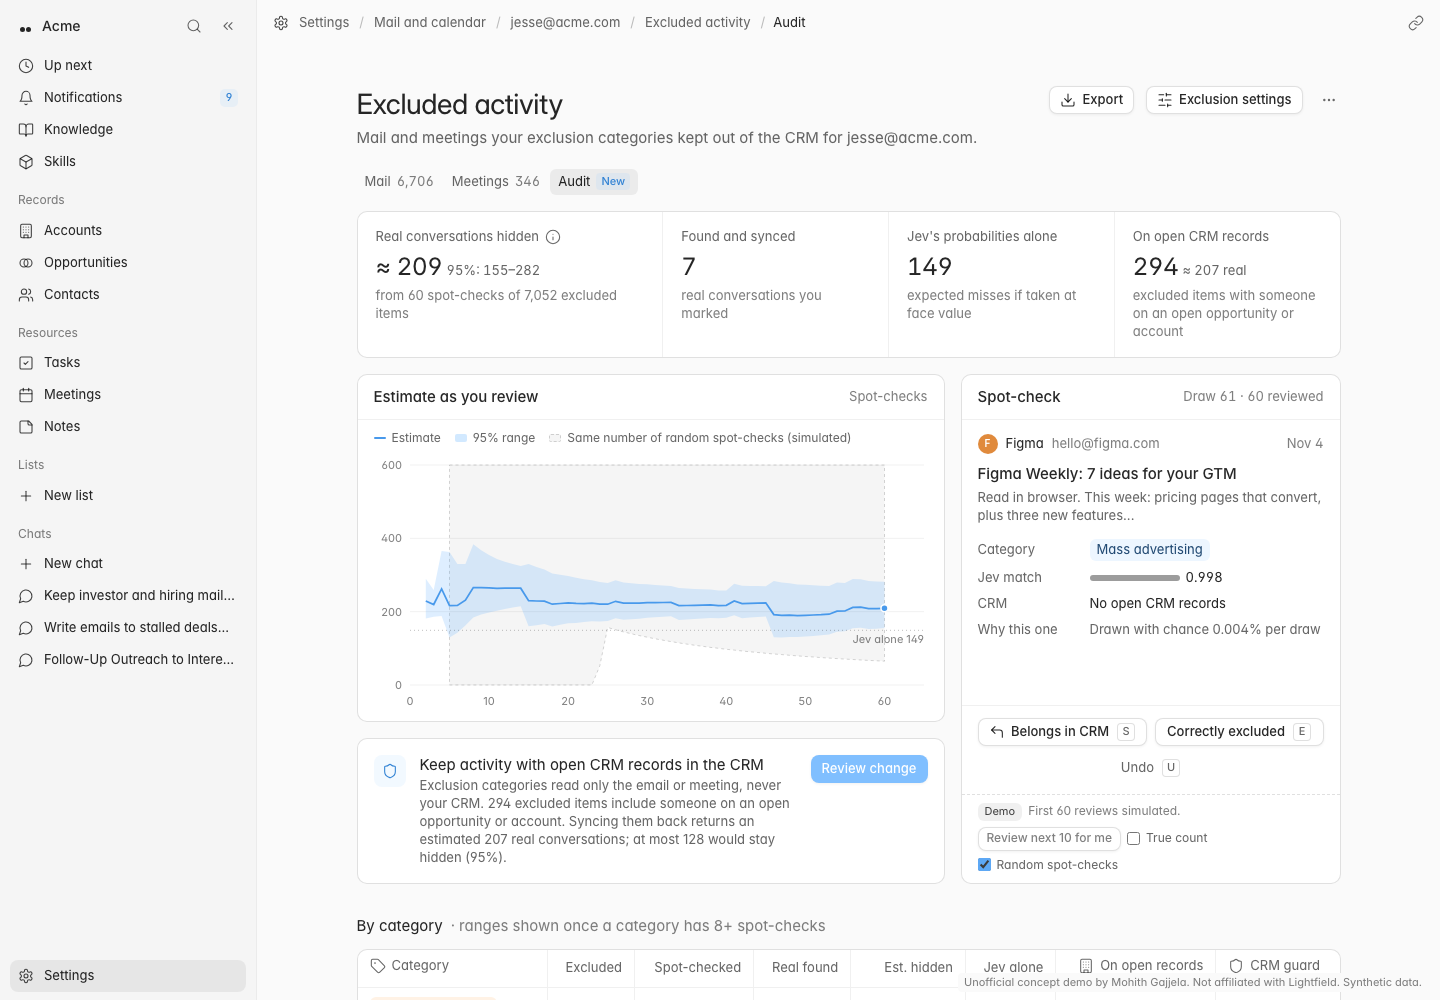
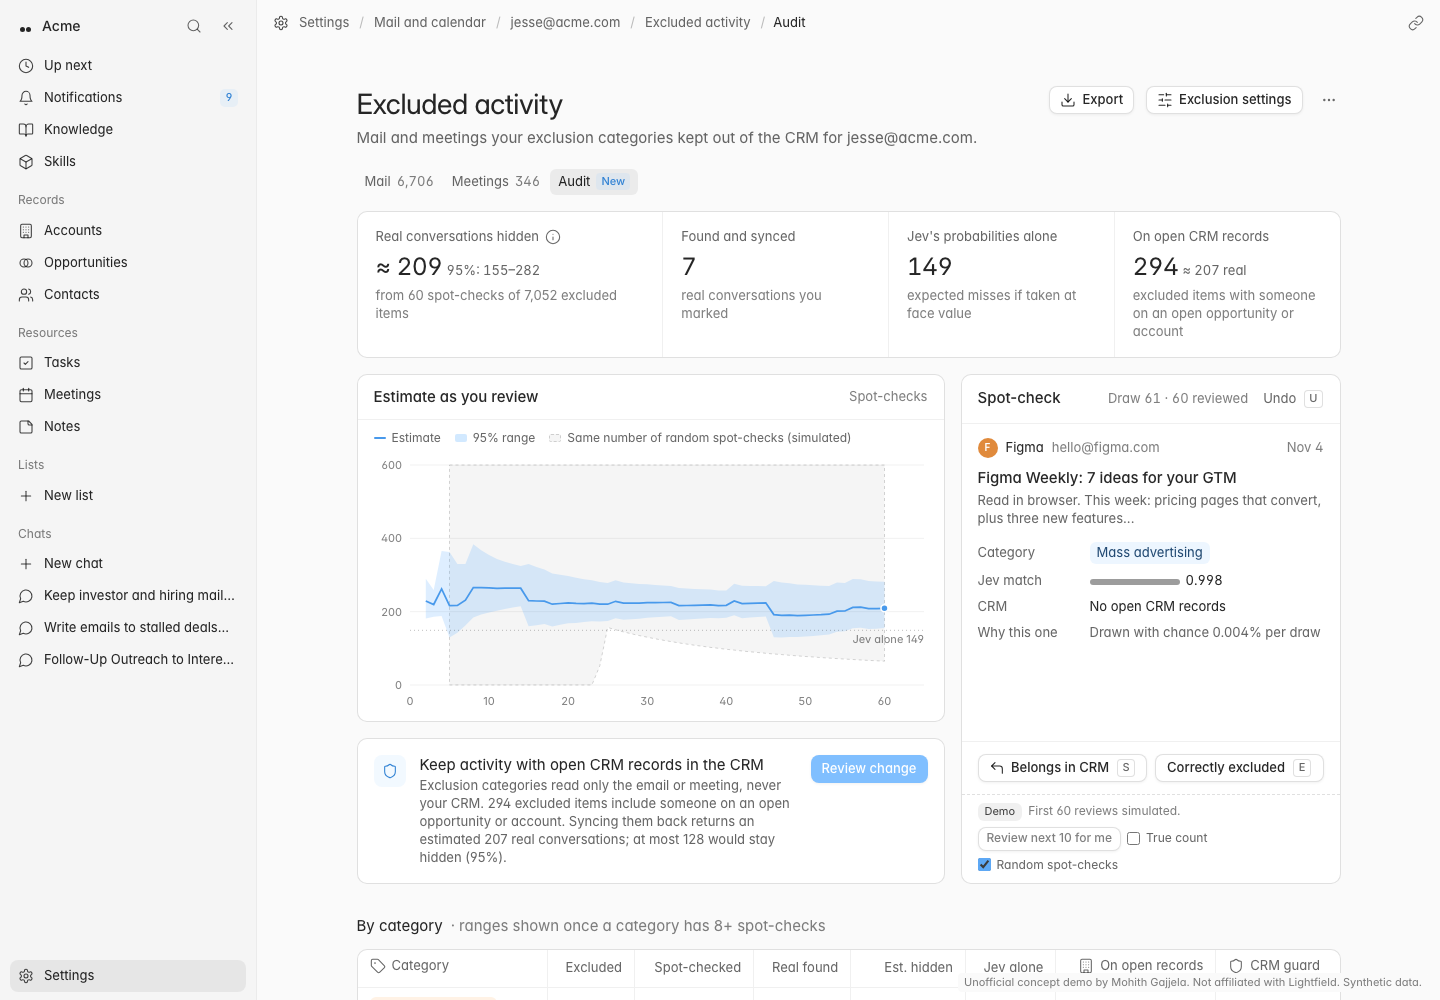
Settings fidelity, keyboard fix, spot-check layout

diff --git a/app.js b/app.js
@@ -239,7 +239,7 @@ function renderAudit() {
     const it = items[next];
     const crmText = it.crm ? `On open record${it.acct ? ' · ' + esc(it.acct) : ''}` : 'No open CRM records';
     spot = `<div class="card white spot" aria-label="Spot-check">
-      <div class="panel-head"><span class="h3">Spot-check</span><span class="faint num">Draw ${fmt(n + 1)} · ${fmt(sm.unique)} reviewed</span></div>
+      <div class="panel-head"><span class="h3">Spot-check</span><span class="faint num">Draw ${fmt(n + 1)} · ${fmt(sm.unique)} reviewed</span><button class="btn ghost" id="b-undo" ${n ? '' : 'disabled'} aria-keyshortcuts="U" style="height:24px;padding:0 6px;margin-right:-6px">Undo <kbd>U</kbd></button></div>
       <div class="spot-body">
         <div class="from">${avatar(it.from)}<span>${esc(it.from)}</span><span class="faint" style="overflow:hidden;text-overflow:ellipsis;white-space:nowrap">${esc(it.email)}</span><span class="faint" style="margin-left:auto">${fmtDate(it.d)}</span></div>
         <div class="subj">${it.k === 'e' ? '<i data-lucide="calendar" style="vertical-align:-3px;margin-right:4px"></i>' : ''}${esc(it.subj)}</div>
@@ -254,7 +254,6 @@ function renderAudit() {
       <div class="spot-actions">
         <button class="btn" id="b-yes" aria-keyshortcuts="S"><i data-lucide="corner-up-left"></i>Belongs in CRM <kbd>S</kbd></button>
         <button class="btn" id="b-no" aria-keyshortcuts="E">Correctly excluded <kbd>E</kbd></button>
-        <button class="btn ghost" id="b-undo" ${n ? '' : 'disabled'} aria-keyshortcuts="U">Undo <kbd>U</kbd></button>
       </div>
       <div class="demo-row"><span class="chip gray" style="height:18px;font-size:.6875rem">Demo</span>${S.seeded ? '<span>First 60 reviews simulated.</span>' : ''}
         <button class="btn" id="b-sim">Review next 10 for me</button>
@@ -436,19 +435,20 @@ function renderSettings() {
     return `<div class="card-row cat-row ${changed ? 'pending' : ''}"><div style="flex:1;min-width:0">
       <div class="row-title">${esc(cat.name)} <span class="applies">${esc(cat.applies)}</span></div>
       <div class="row-desc">${esc(cat.desc)}</div>
-      <div class="audit-line"><i data-lucide="activity"></i>${ready ? `≈ ${fmt(r.est)} real conversations hidden` : 'Not audited yet'} · ${fmt(r.excluded)} excluded · ${fmt(r.crmCount)} on open records <a class="ul" href="#/excluded/audit/category/${cat.id}" style="text-decoration:underline;text-decoration-color:var(--color-neutral-t4)">See audit</a></div></div>
+      <div class="audit-line"><i data-lucide="activity"></i>${ready ? `≈ ${fmt(r.est)} real conversation${Math.round(r.est) === 1 ? '' : 's'} hidden` : 'Not audited yet'} · ${fmt(r.excluded)} excluded · ${fmt(r.crmCount)} on open records <a class="ul" href="#/excluded/audit/category/${cat.id}" style="text-decoration:underline;text-decoration-color:var(--color-neutral-t4)">See audit</a></div></div>
       <div style="display:flex;align-items:center;gap:8px;color:var(--color-content-secondary)"><span>Keep open CRM records</span>
       <button class="switch" role="switch" aria-checked="${on}" aria-label="Keep activity with open CRM records for ${esc(cat.name)}" data-c="${c}"></button>
       <button class="icon-btn" aria-label="Category actions"><i data-lucide="ellipsis"></i></button></div></div>`;
   }).join('');
   $('#view').innerHTML = `<h1 class="h1">Mail and calendar</h1><p class="sub">Manage record creation settings from your connected mail and calendar accounts</p>
-    <div class="card" style="margin-top:28px">
-      <div class="card-row" style="padding:16px"><span style="width:40px;height:40px;border-radius:10px;border:1px solid var(--color-border-subtle);display:grid;place-items:center;background:#fff">${gLogo()}</span>
+    <button class="btn" style="margin-top:22px" title="Connecting more accounts depends on your plan"><i data-lucide="plus"></i>Add account</button>
+    <div class="card acct" style="margin-top:20px">
+      <div class="card-row" style="padding:12px 16px;border-bottom:1px solid var(--color-border-subtle)"><span style="width:40px;height:40px;border-radius:10px;border:1px solid var(--color-border-subtle);display:grid;place-items:center;background:#fff">${gLogo()}</span>
         <div style="flex:1"><div class="row-title">jesse@acme.com</div><div class="row-desc">Google mail and calendar account</div></div>
         <span style="display:inline-flex;align-items:center;gap:8px"><span class="dot" style="background:#09ae3f"></span>Connected</span><button class="icon-btn" aria-label="Account actions"><i data-lucide="ellipsis"></i></button></div>
-      <div class="card-row"><div style="flex:1"><div class="row-title">Backsync range</div><div class="row-desc">Choose how far back to sync your mail and calendar</div></div><span class="pill">3 months</span></div>
-      <div class="card-row"><div style="flex:1"><div class="row-title">Calendar sync</div><div class="row-desc">Choose which meetings to track in Lightfield</div></div><span class="pill">External meetings only</span></div>
-      <div class="card-row"><div style="flex:1"><div class="row-title">Account and contact creation</div><div class="row-desc">Control how new records are automatically created from emails and calendar meetings</div></div><span class="pill">When you reach out</span></div>
+      <div class="card-row"><div style="flex:1"><div class="row-title">Backsync range</div><div class="row-desc">Choose how far back to sync your mail and calendar</div></div><span class="select">3 months<i data-lucide="chevron-down"></i></span></div>
+      <div class="card-row"><div style="flex:1"><div class="row-title">Calendar sync</div><div class="row-desc">Choose which meetings to track in Lightfield</div></div><span class="select">External meetings only<i data-lucide="chevron-down"></i></span></div>
+      <div class="card-row"><div style="flex:1"><div class="row-title">Account and contact creation</div><div class="row-desc">Control how new records are automatically created from emails and calendar meetings</div></div><span class="select">When you reach out<i data-lucide="chevron-down"></i></span></div>
     </div>
     <div class="section-title">Exclusions</div>
     <div class="card"><div class="card-row" style="padding:14px 16px"><div style="flex:1"><div class="row-title">Excluded activity types</div><div class="row-desc">Lightfield checks every email and meeting from this account against these descriptions and keeps matches out of the CRM.</div></div>
@@ -522,7 +522,7 @@ function exportJSON() {
 
 // ---------------------------------------------------------------- keyboard + states
 document.addEventListener('keydown', (e) => {
-  if (e.target.closest('input,select,textarea') || e.metaKey || e.ctrlKey || e.altKey) return;
+  const tg = e.target; if ((tg && tg.closest && tg.closest('input,select,textarea')) || e.metaKey || e.ctrlKey || e.altKey) return;
   if (e.key === 'Escape') { closeDialog(); closeMenu(); return; }
   if ($('#overlay').classList.contains('open')) return;
   const onAudit = parseHash().parts[1] === 'audit' && !parseHash().parts[2];

diff --git a/styles.css b/styles.css
@@ -200,8 +200,8 @@ kbd { font-family: var(--font); font-size: .6875rem; min-width: 18px; height: 18
 .meta .mk { color: var(--color-content-secondary); display: flex; align-items: center; gap: 6px; }
 .bar { height: 6px; border-radius: 3px; background: var(--color-neutral-t2); overflow: hidden; width: 90px; display: inline-block; vertical-align: middle; margin-right: 6px; }
 .bar i { display: block; height: 100%; background: var(--color-neutral-t7); }
-.spot-actions { display: flex; gap: 8px; padding: 12px 16px; border-top: 1px solid var(--color-border-subtle); flex-wrap: wrap; }
-.spot-actions .btn { flex: 1; justify-content: center; }
+.spot-actions { display: flex; gap: 8px; padding: 12px 16px; border-top: 1px solid var(--color-border-subtle); }
+.spot-actions .btn { flex: 1 1 0; min-width: 0; justify-content: center; padding: 0 8px; }
 .demo-row { display: flex; align-items: center; gap: 6px; padding: 8px 12px 10px 16px; border-top: 1px dashed var(--color-border-moderate); color: var(--color-content-quaternary); font-size: .75rem; flex-wrap: wrap; }
 .demo-row .btn { height: 24px; font-size: .75rem; padding: 0 8px; }
 .toggle { display: inline-flex; align-items: center; gap: 6px; cursor: pointer; color: var(--color-content-secondary); }
@@ -279,3 +279,9 @@ kbd { font-family: var(--font); font-size: .6875rem; min-width: 18px; height: 18
   .grid2 { grid-template-columns: minmax(0, 1fr) 340px; }
   .sidebar { width: 232px; }
 }
+
+.select { display: inline-flex; align-items: center; gap: 8px; height: 30px; padding: 0 10px 0 12px; border-radius: var(--radius-lg); border: 1px solid var(--color-border-moderate); background: var(--color-white); box-shadow: var(--shadow-button); font-size: .9375rem; cursor: pointer; white-space: nowrap; }
+.select svg { color: var(--color-content-secondary); }
+.acct .card-row + .card-row { border-top: 0; padding-top: 10px; padding-bottom: 10px; }
+.acct .card-row:nth-child(2) { padding-top: 18px; }
+.acct .card-row:last-child { padding-bottom: 18px; }
